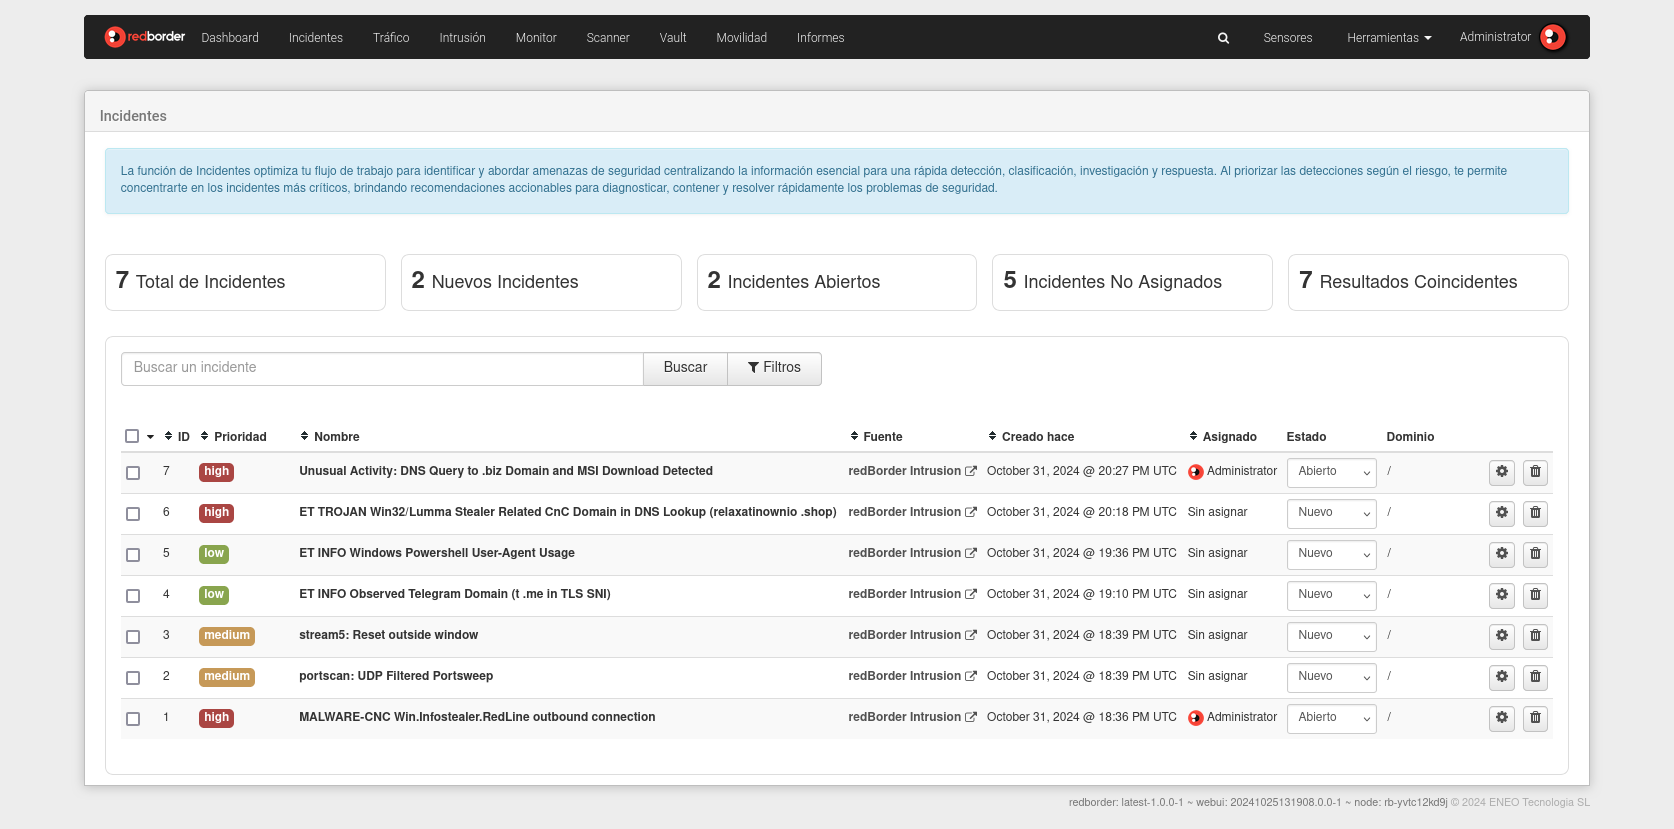
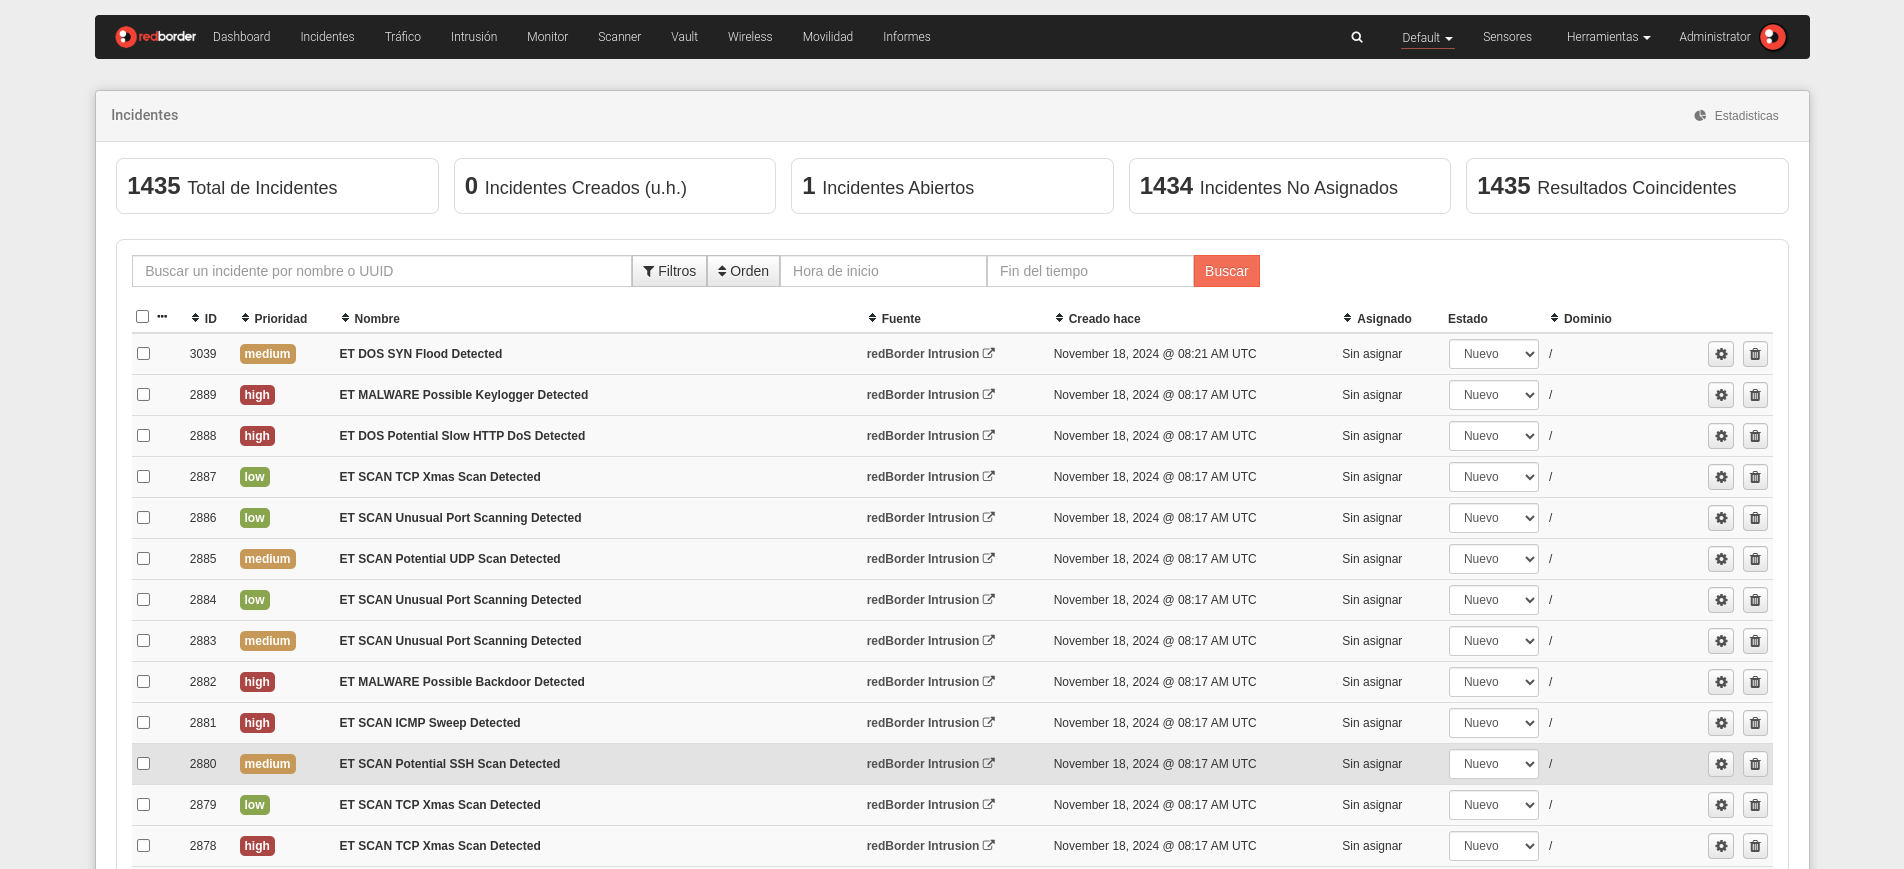
Updating images, adding incident counters and Manage Multiple Incidents in Incident Actions

Changed region(s): [[0.0311, 0.0302, 0.963, 0.9952]]

diff --git a/docs/documentation/manager/incidents/ch01_incidents_list.es.md b/docs/documentation/manager/incidents/ch01_incidents_list.es.md
@@ -6,9 +6,9 @@ Los incidentes se clasifican según su nivel de riesgo, enfocando la atención e
 
 ![Incidents view](images/incidents_list.es.png)
 
-Access incidents through the top menu.
+Accede a las incidencias a través del menú superior.
 
-## Searching and Filtering Incidents
+## Búsqueda y filtrado de incidentes
 
 Busca, filtra y ordena incidentes fácilmente para enfocarte en los casos más relevantes.
 
@@ -41,11 +41,22 @@ Los campos de un incidente son los siguientes:
 
 Las acciones que puedes realizar en un incidente incluyen:
 
+- **Gestionar Múltiples Incidentes**: Haz clic en la casilla de verificación dentro de la cabecera de la lista de incidentes para seleccionar todos los disponibles en la página actual, o selecciona uno a uno utilizando la casilla ubicada a la izquierda de cada incidente. Al presionar el ícono de los tres puntos, podrás cambiar el estado, vincular o borrar los incidentes seleccionados.
 - **Ver Detalles del Incidente**: Haz clic en el nombre del incidente para acceder a información detallada.
 - **Ver Eventos del Incidente**: Haz clic en la fuente para revisar los eventos relacionados con el incidente.
 - **Cambiar Estado del Incidente**: Actualiza el estado haciendo clic en el campo de estado.
 - **Gestionar Incidente**: Haz clic en el ícono de configuración para entrar en modo de gestión del incidente.
 - **Eliminar Incidente**: Haz clic en el ícono de basura para eliminar el incidente de la lista.
+
+## Contadores de Incidentes
+
+En la parte superior de la vista de incidentes se encuentra la siguiente información:
+
+- **Total de Incidentes**: Total de incidentes visibles.
+- **Incidentes Creados**: Total de incidentes creados en la última hora.
+- **Incidentes Abiertos**: Total de incidentes con estado **Abierto**.
+- **Incidentes No Asignados**: Total de incidentes que no han sido asignados a ningún usuario.
+- **Resultados Coincidentes**: Total de incidentes que coinciden con los filtros y busqueda de la lista de incidentes.
 
 ## Barra Lateral de Incidente
 

diff --git a/docs/documentation/manager/incidents/ch01_incidents_list.md b/docs/documentation/manager/incidents/ch01_incidents_list.md
@@ -41,11 +41,22 @@ The fields of an incident are the following:
 
 Actions you can perform on an incident include:
 
+- **Manage Multiple Incidents**: Click the checkbox within the header of the incident list to select all available incidents on the current page, or select one by one using the checkbox located to the left of each incident. By pressing the three-dot icon, you will be able to change the status, link or delete the selected incidents.
 - **View Incident Details**: Click the incident name to access detailed information.
 - **View Incident Events**: Click the source to review related incident events.
 - **Change Incident Status**: Update the status by clicking on the status field.
 - **Manage Incident**: Click the settings icon to enter incident management mode.
 - **Delete Incident**: Click the trash icon to remove the incident from the list.
+
+## Incident Counters
+
+At the top of the incident view you will find the following information:
+
+- **Total Incidents**: Total number of visible incidents.
+- **Created Incidents**: Total number of incidents created in the last hour.
+- **Open Incidents**: Total number of incidents with status **Open**.
+- **Unassigned Incidents**: Total number of incidents that have not been assigned to any user.
+- **Matching Results**: Total number of incidents that match the filters and search in the incident list.
 
 ## Incident Sidebar
 
